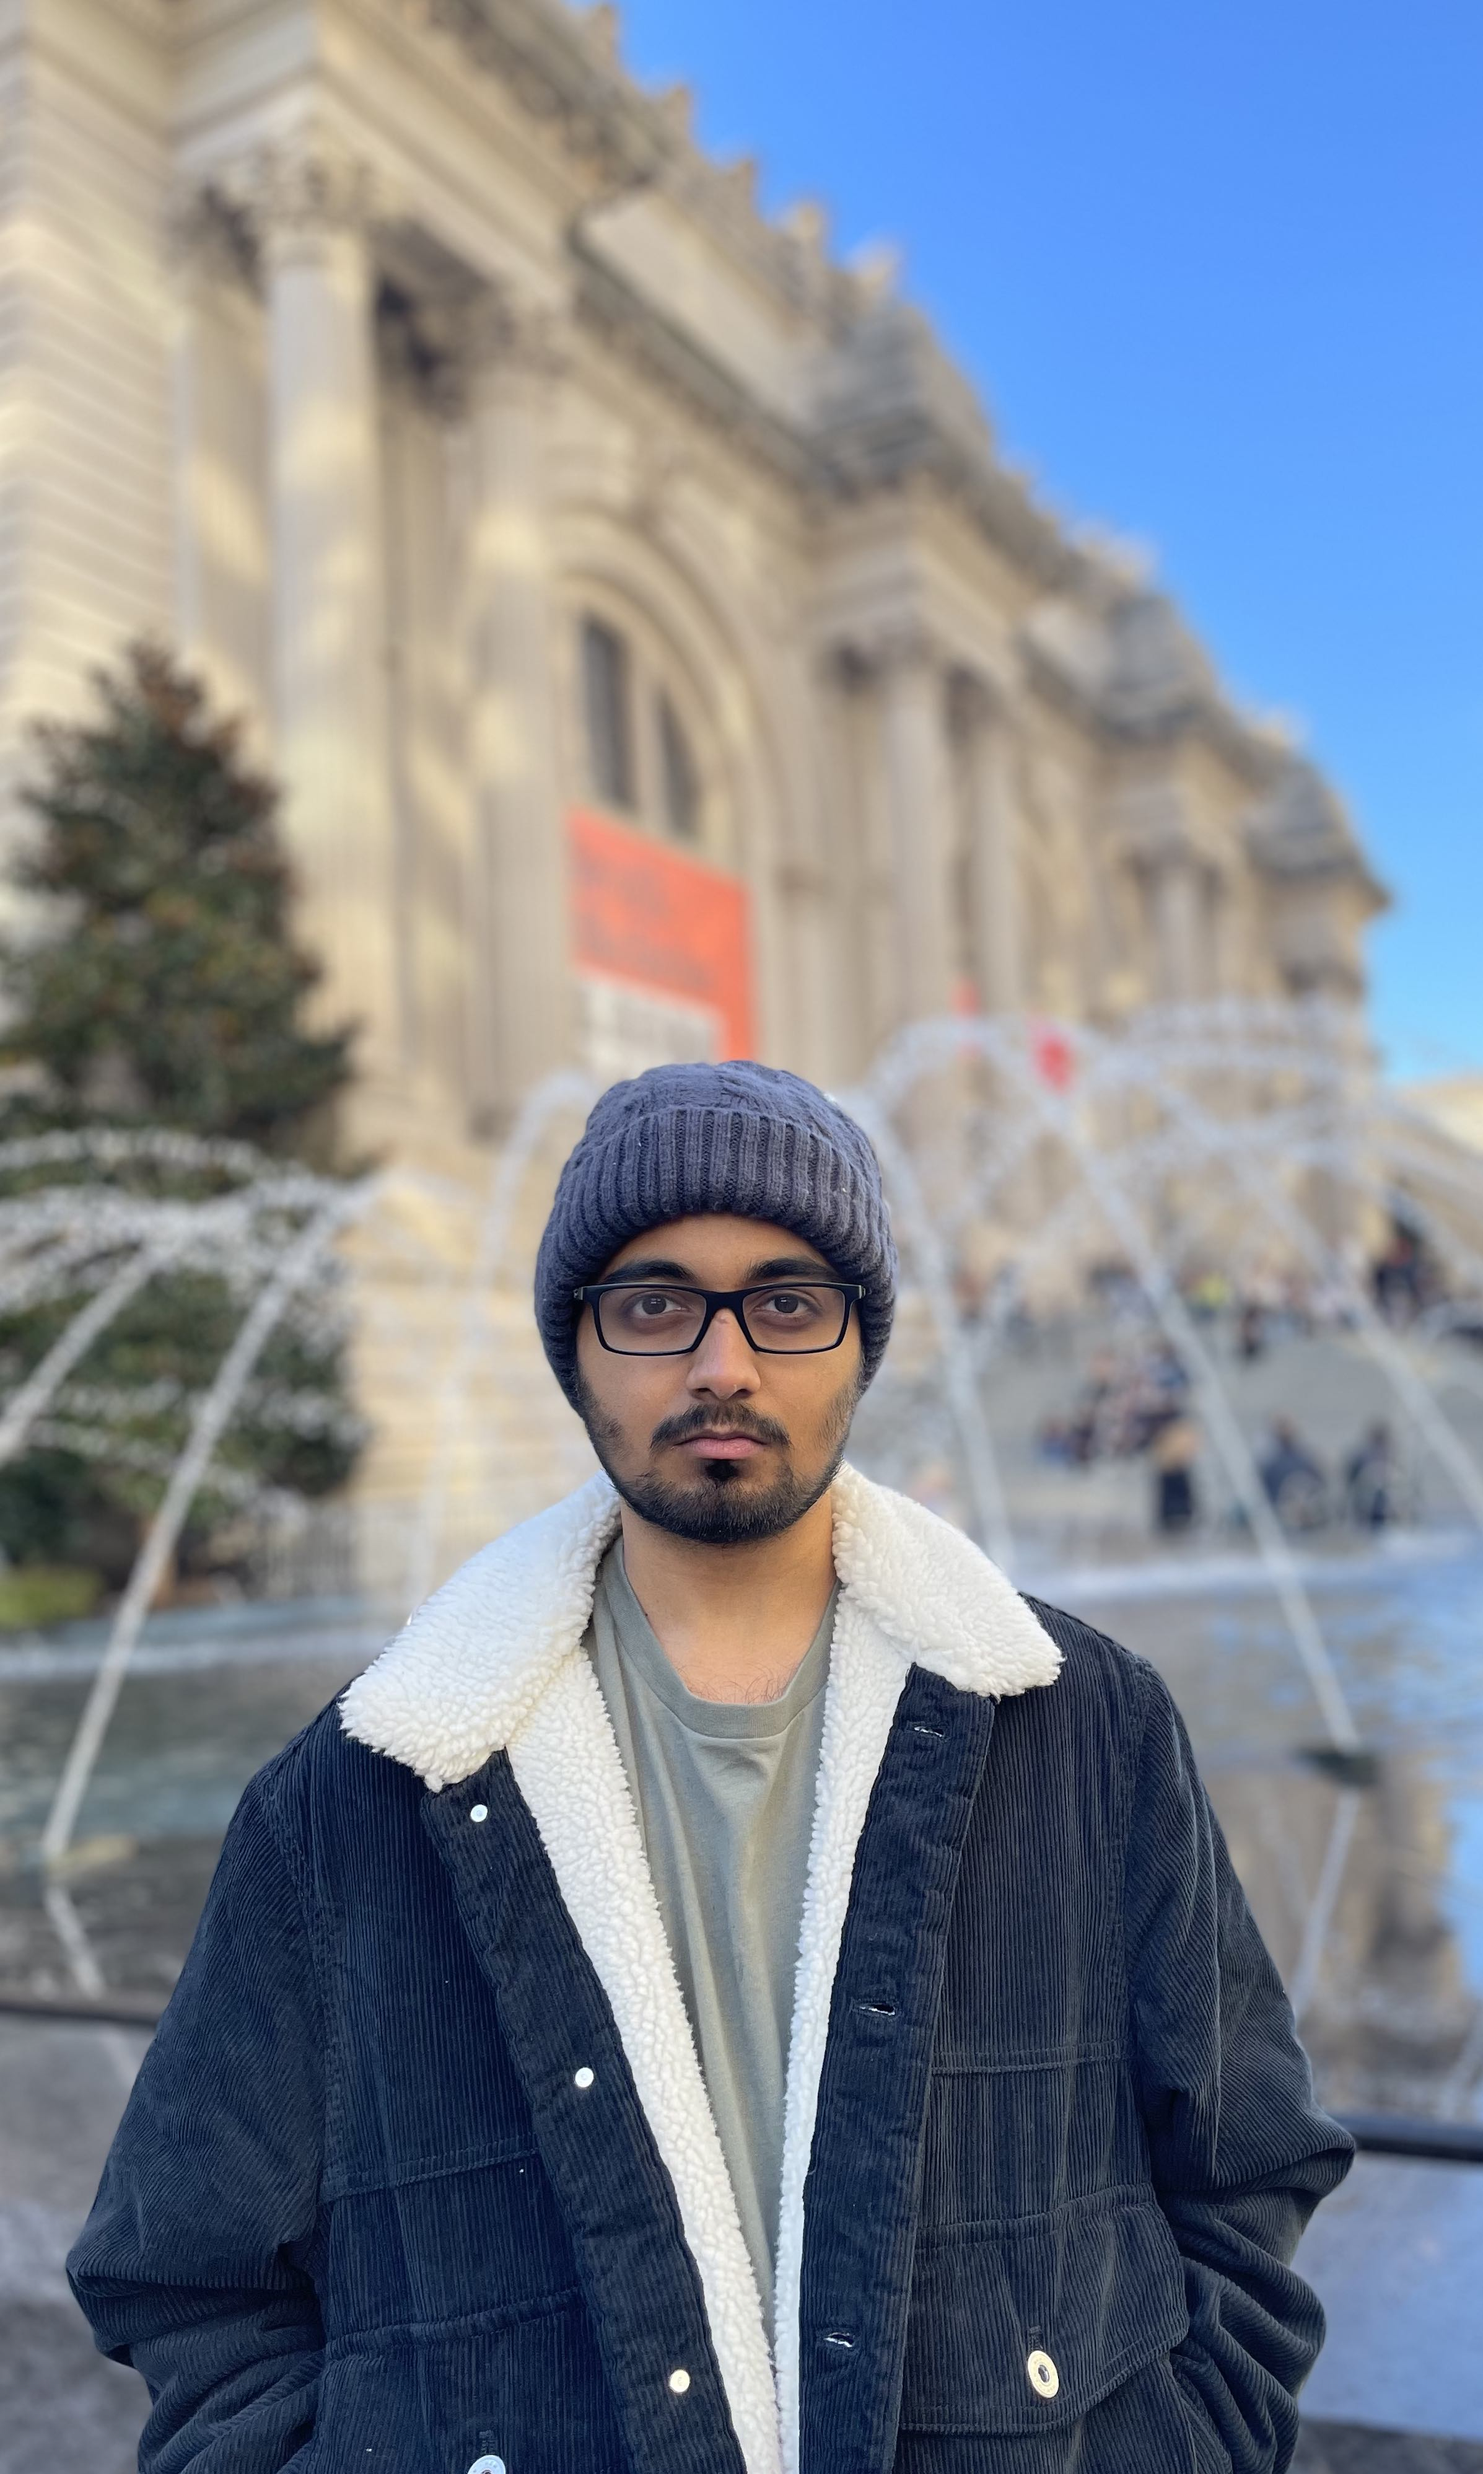
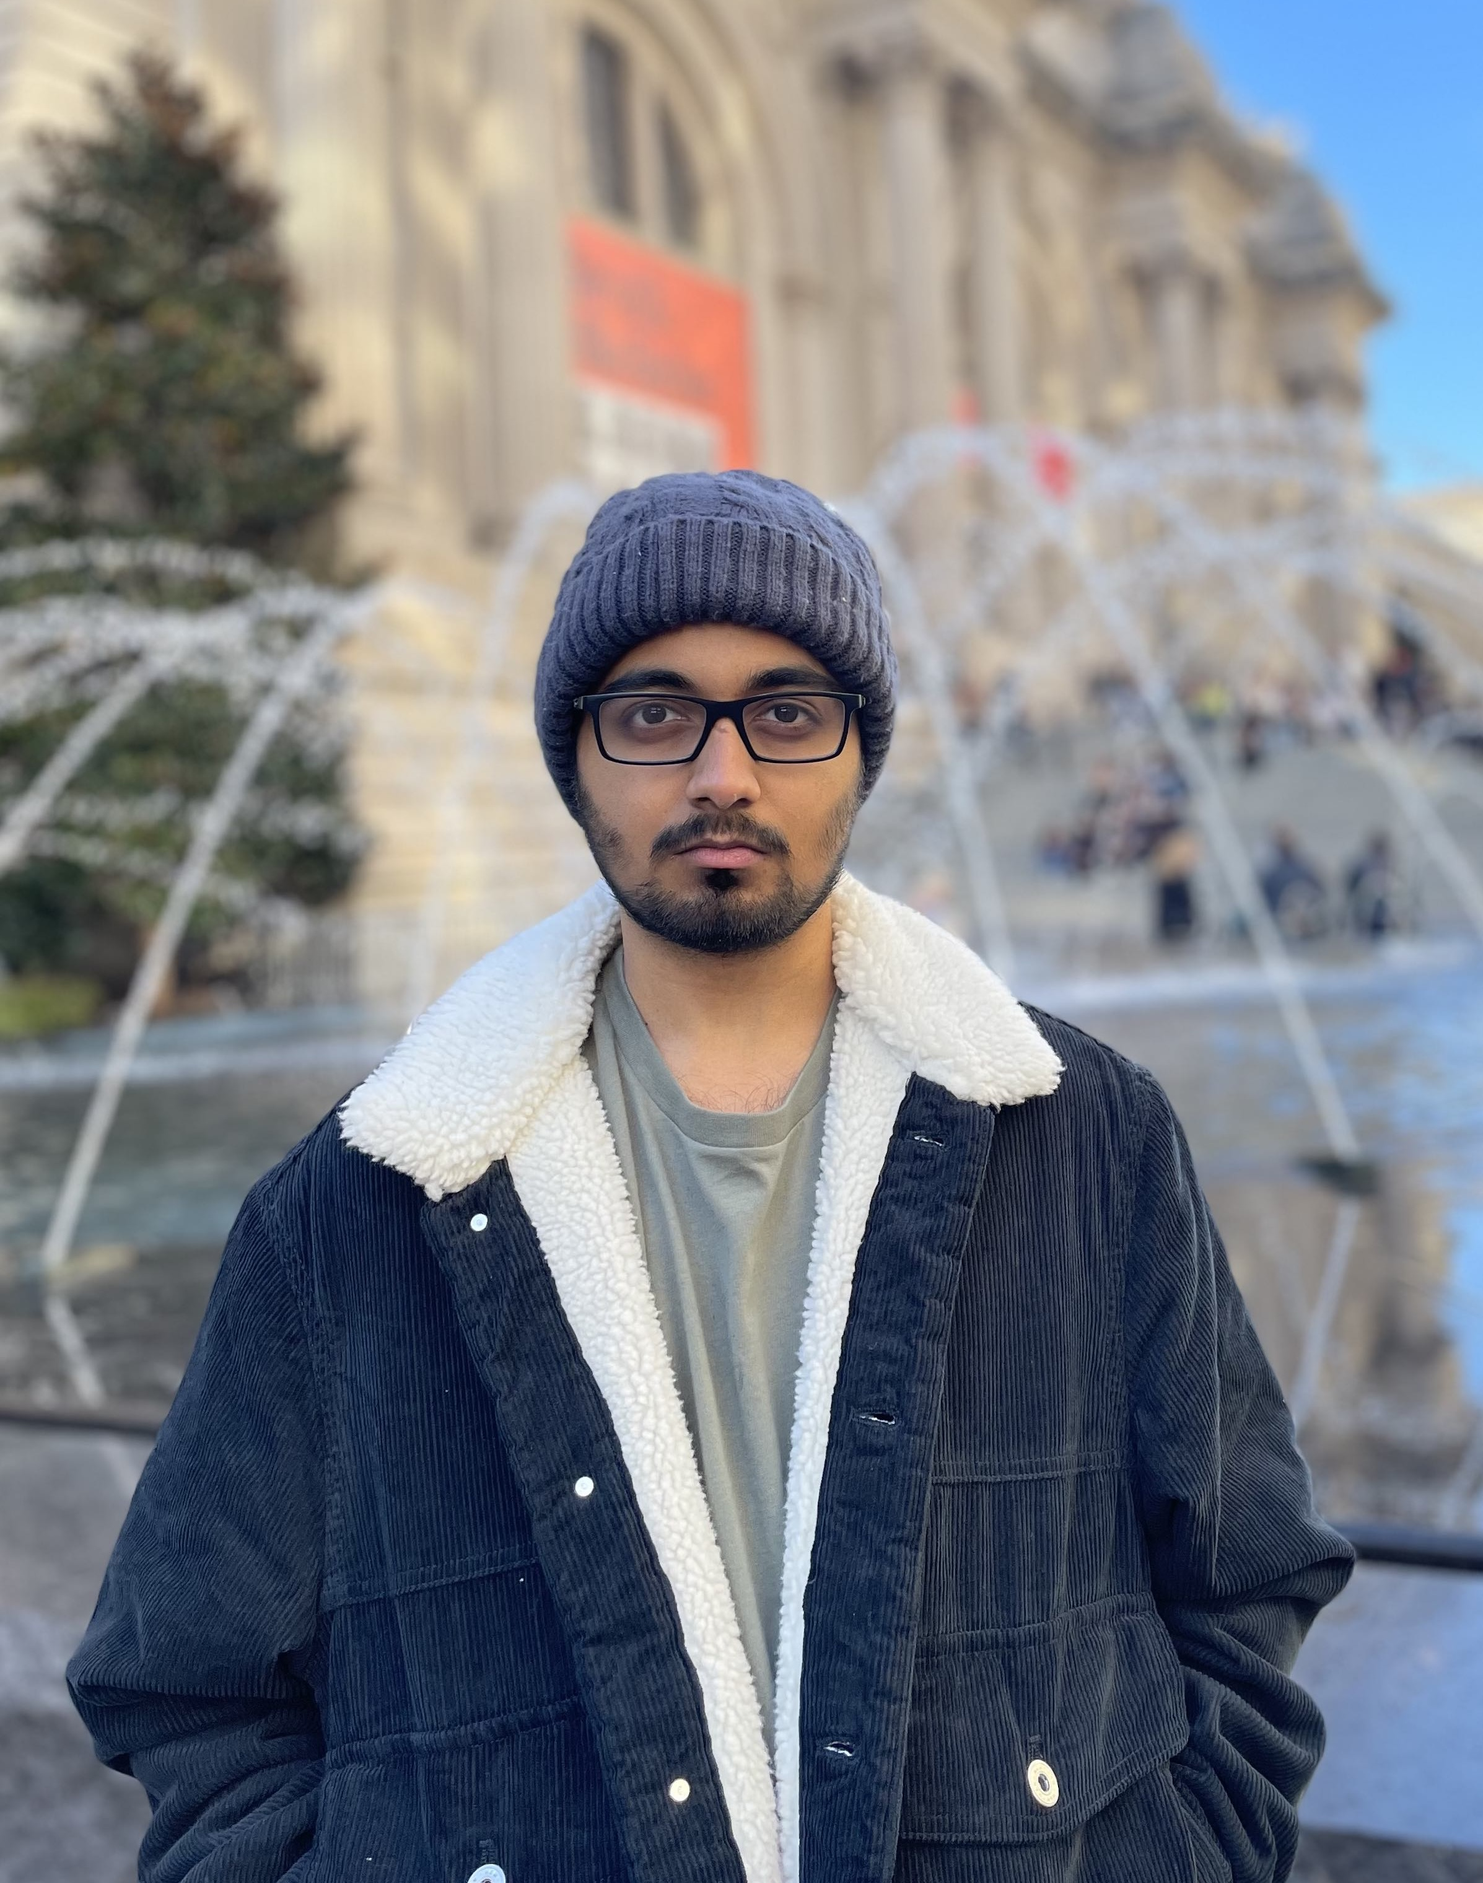
update prof pic and cv

diff --git a/_layouts/cv.html b/_layouts/cv.html
@@ -4,7 +4,6 @@
             <h1 class="post-title">{{ page.title }} {% if page.cv_pdf %}<a href="{{ page.cv_pdf | prepend: 'assets/pdf/' | relative_url}}" target="_blank" rel="noopener noreferrer" class="float-right"><i class="fas fa-file-pdf"></i></a>{% endif %}</h1>
             <p class="post-description">{{ page.description }}</p>
           </header>
-
       
           <div class="clearfix">
             {{ content }}

diff --git a/_pages/cv.md b/_pages/cv.md
@@ -3,11 +3,13 @@ layout: cv
 permalink: /cv/
 title: CV 
 description: CV
+cv_pdf: cv.pdf
 nav: true
 nav_order: 3
 ---
+<!-- _pages/cv.md -->
 <div style="width: 100%; height:800">
-<iframe src="assets/pdf/cv.pdf" width="100%" height="800">
+<iframe src="cv.pdf" width="100%" height="800">
 Please click on the icon on the top right to download my CV if it does not show up in your browser. 
 </iframe>
 </div>
